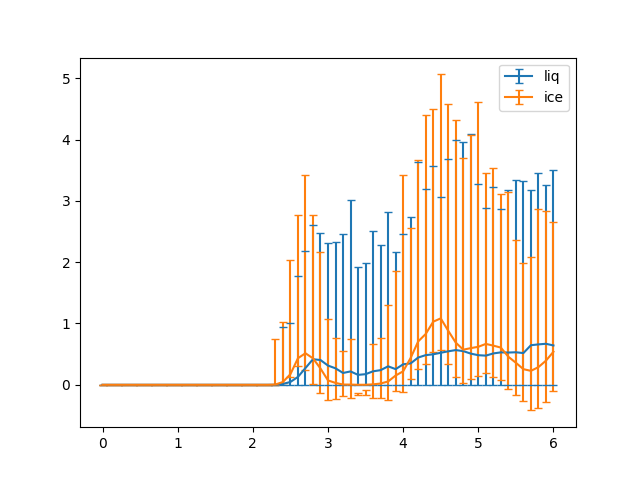
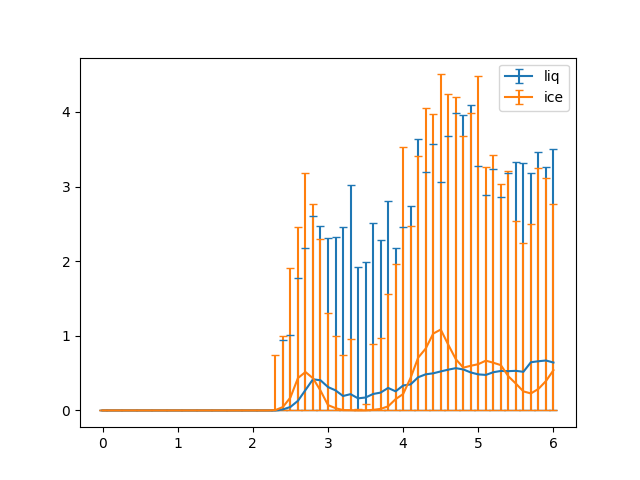
fixed again

diff --git a/rsf_visualize.py b/rsf_visualize.py
@@ -76,8 +76,8 @@ def plot_rsf_means(rsf_df, FTR_HDRS, fname="means_of_rsfs_minmax_errbars1.png"):
     liq_error = np.array([liq_mins, liq_maxs])
     
     ice_means = rsf_df[rsf_df["y"] == 0].mean()
-    ice_mins  = liq_means - rsf_df[rsf_df["y"] == 0].min()
-    ice_maxs  = rsf_df[rsf_df["y"] == 0].max() - liq_means
+    ice_mins  = ice_means - rsf_df[rsf_df["y"] == 0].min()
+    ice_maxs  = rsf_df[rsf_df["y"] == 0].max() - ice_means
     #ice_stds  = rsf_df[rsf_df["y"] == 0].std()
     ice_error = np.array([ice_mins, ice_maxs])
     
